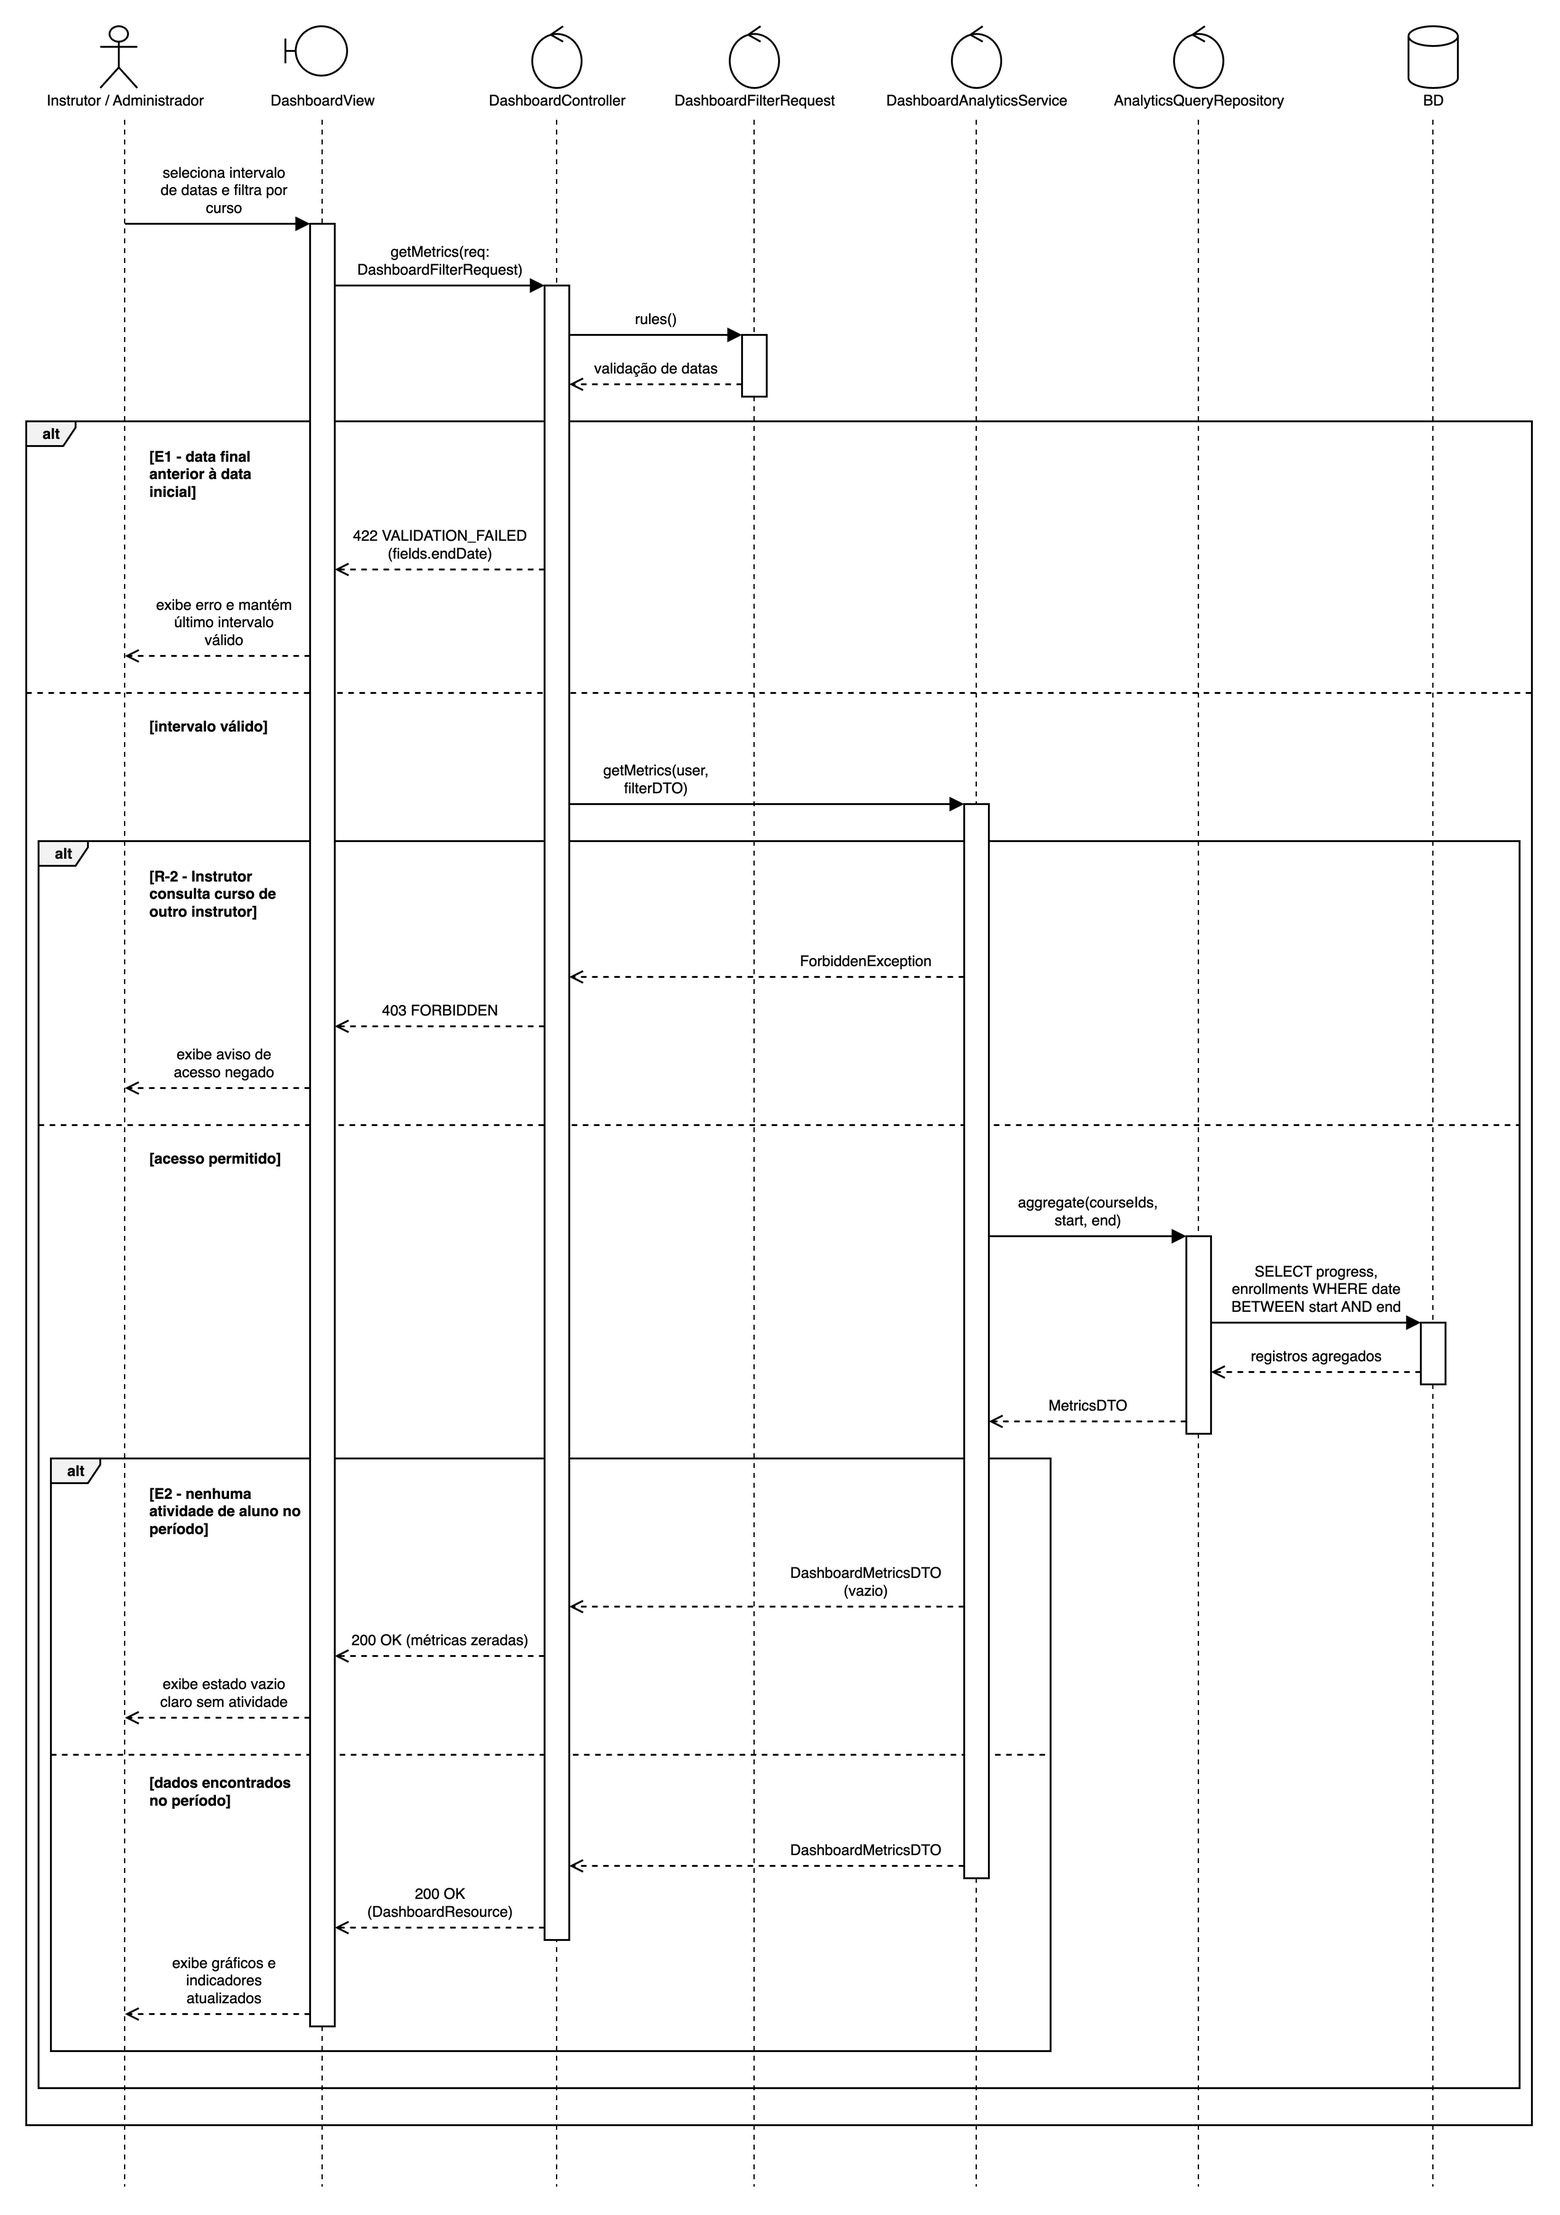
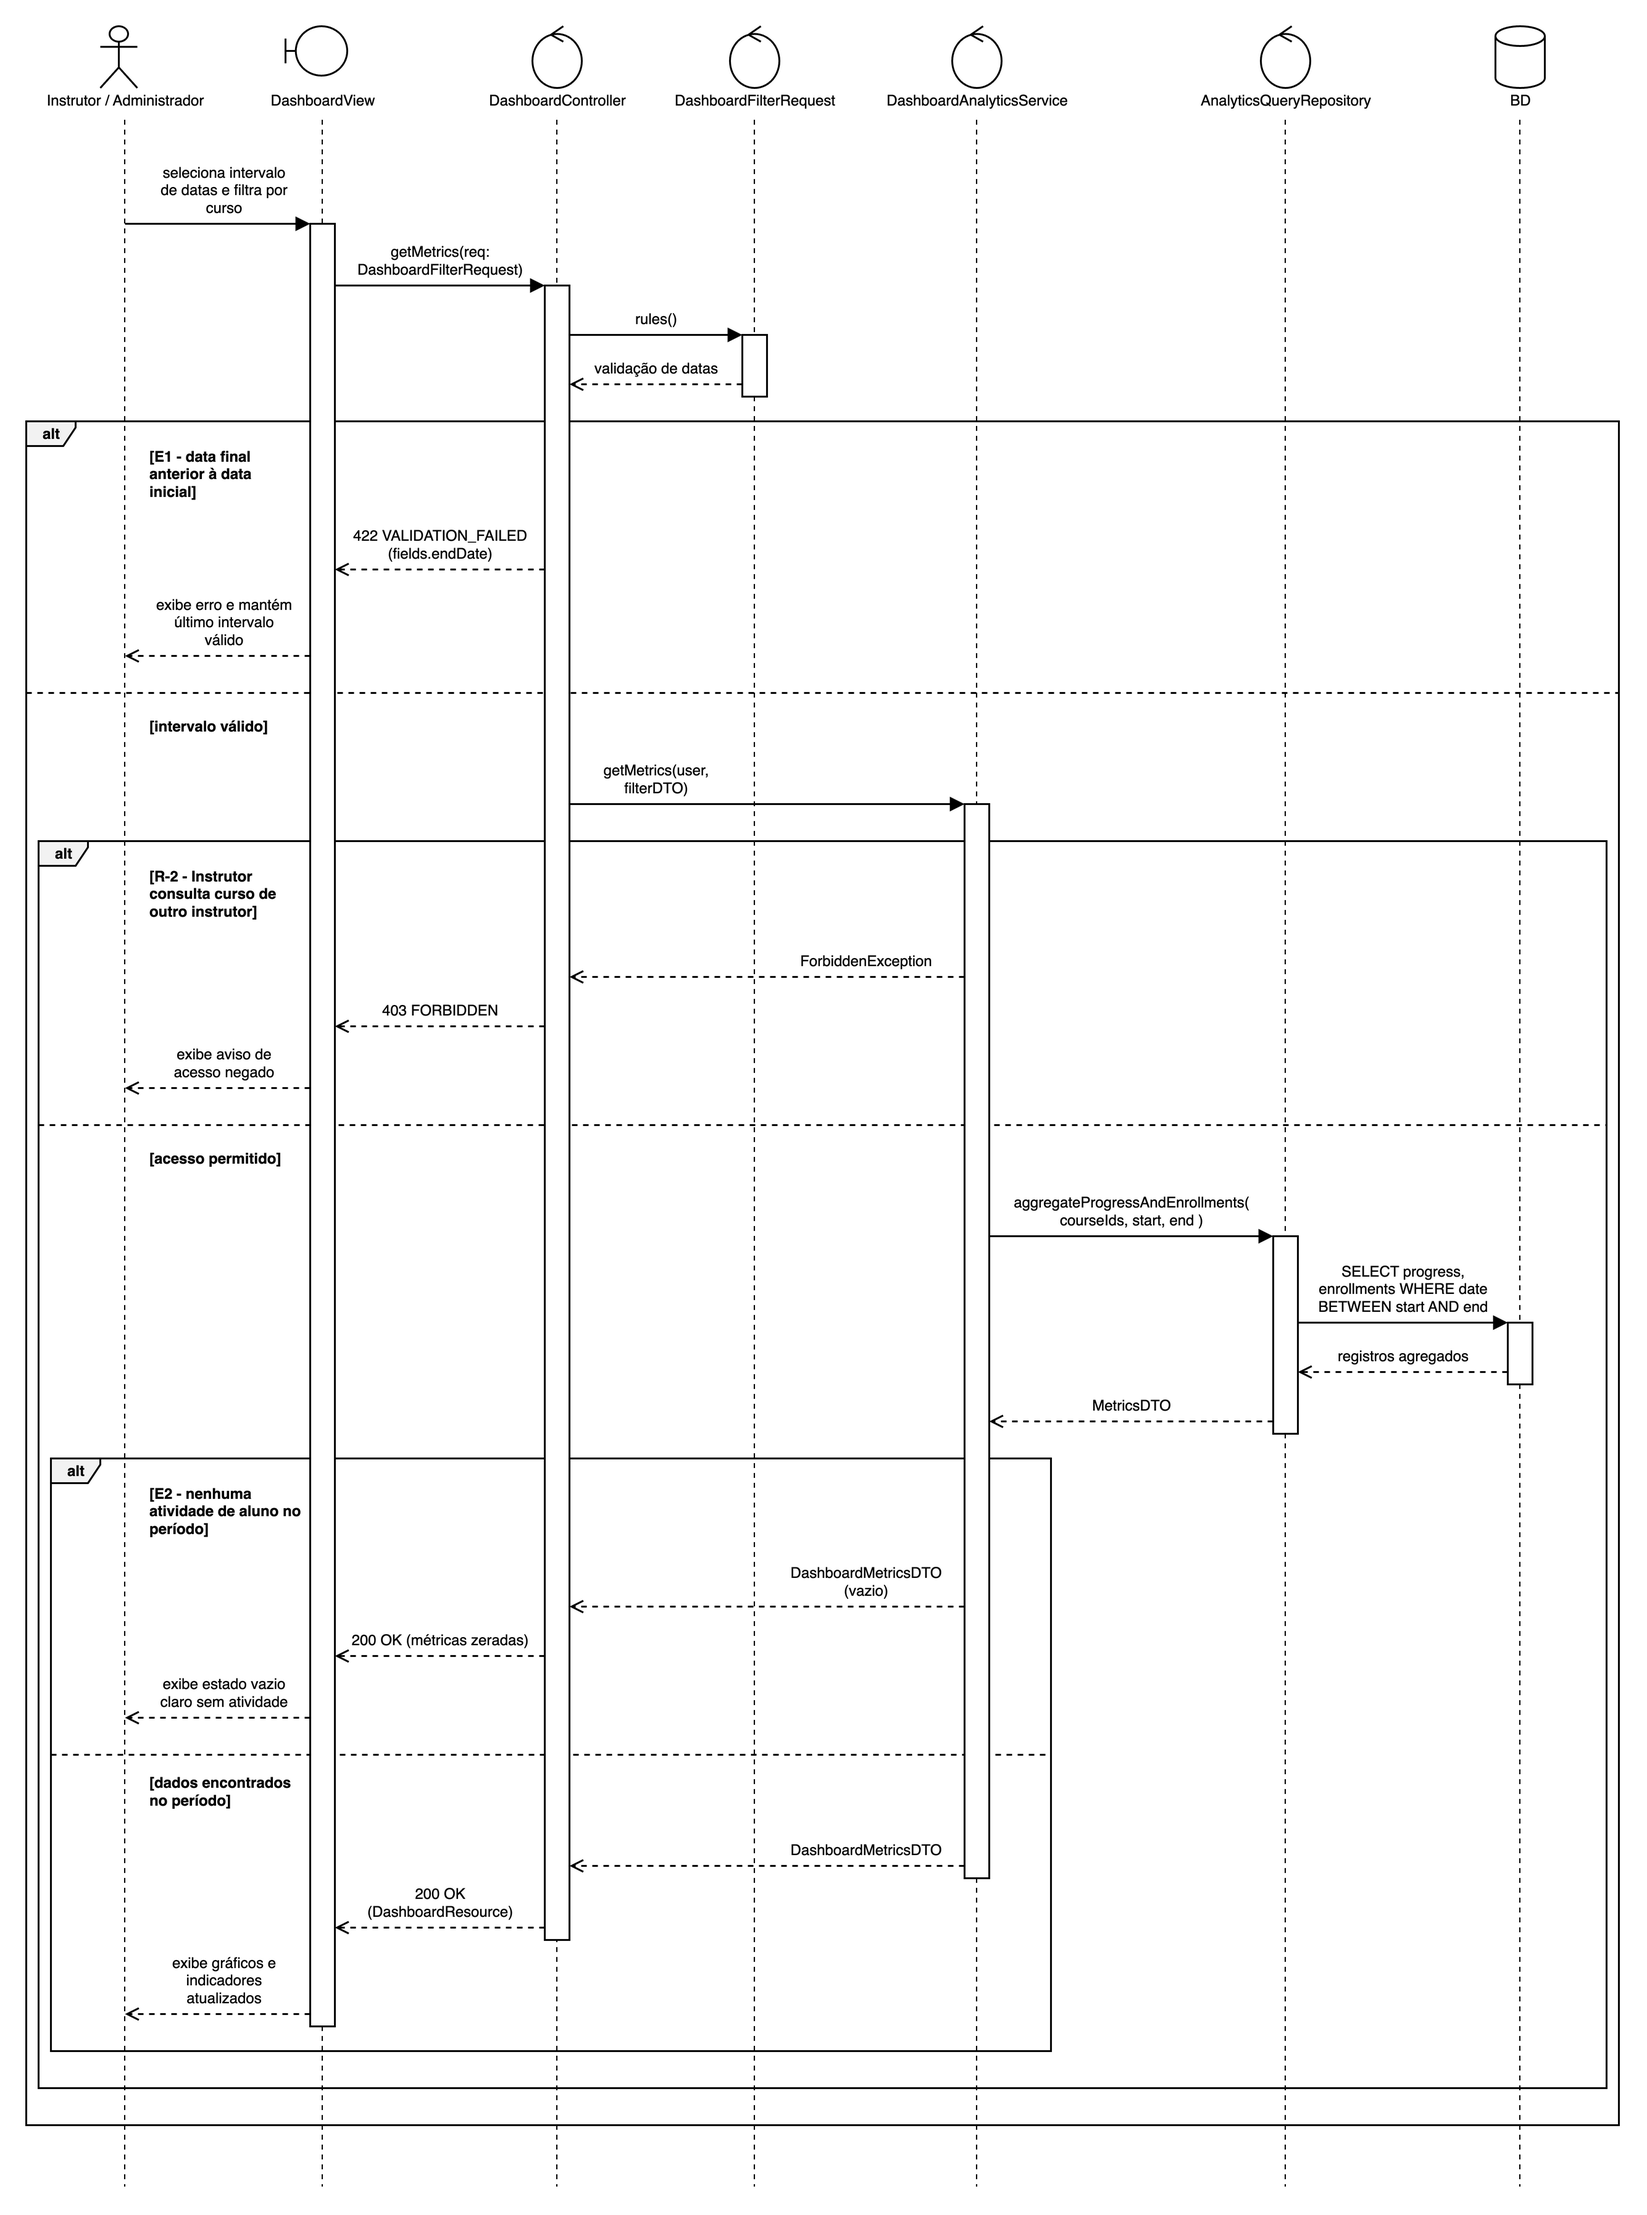
fix(sequencia): align sequence diagram messages with item 13 and clarify #123
Address review findings in item 14:
- Update UC007 sequence message to aggregateProgressAndEnrollments to match item 13.
- Clarify in area-d.md that group decision assigns 409 CONFLICT to blocked deletions while unindexed lesson interactions use LESSON_NOT_INDEXED.
- Regenerate UC007 draw.io diagram and export PNG.

Refs #104, #123

diff --git a/especificacao/14-diagramas-de-sequencia/area-d.md b/especificacao/14-diagramas-de-sequencia/area-d.md
@@ -42,7 +42,7 @@ Exclusão definitiva de conta pelo Administrador com anonimização de dados pes
 
 Em conformidade com a regra 8 do `AGENTS.md`, seguem resolvidas as pendências cruzadas deixadas pela Área A para a Área D no item 14:
 
-1. **Códigos de erro `CONFLICT` e `SERVICE_UNAVAILABLE` do catálogo (`docs/tdd.md` seção 3.1):** Confirmados para a Área D com base nos requisitos **RF009** e **RNF003**:
-   - O código `CONFLICT` (HTTP 409) é confirmado para a Área D sob a especialização estável `LESSON_NOT_INDEXED` no fluxo de exceção E1 do UC001, disparado quando o Aluno tenta interagir com o Tutor de IA em uma aula cujo processamento de transcrição e geração de embeddings vetoriais ainda não foi finalizado.
+1. **Códigos de erro `CONFLICT` e `SERVICE_UNAVAILABLE` do catálogo (`docs/tdd.md` seção 3.1):** Alinhados e confirmados para a Área D com base nos requisitos **RF009**, **RF012** e **RNF003**:
+   - Conforme decisão técnica do grupo, o código de catálogo `CONFLICT` (HTTP 409) é reservado para operações onde há conflito de estado de negócio (como tentativa de exclusão bloqueada por dependências ativas), enquanto a interação com o Tutor de IA em aula cujo processamento de transcrição e geração de embeddings vetoriais ainda não foi finalizado utiliza o código específico e estável `LESSON_NOT_INDEXED` (HTTP 409, fluxo de exceção E1 do UC001).
    - O código `SERVICE_UNAVAILABLE` (HTTP 503) é confirmado para a Área D no fluxo de exceção E3 do UC001, acompanhado obrigatoriamente do cabeçalho HTTP `Retry-After` e do atributo `error.retryAfterSeconds`, retornado quando ocorre falha de comunicação, indisponibilidade temporária ou timeout do microsserviço físico `ai-service` ou da API do provedor de inteligência artificial.
 2. **RNF016 nas ações administrativas do UC008:** Atendido por **RNF016**, **RF012** e regras de negócio do **UC008** (R-4) e **UC018** (R-4). O diagrama de sequência do UC008 (`14-sequencia-uc008.drawio`) e sua especificação modelam expressamente o acionamento síncrono do serviço `AuditService.logAction(...)` e a execução da operação de persistência em banco de dados (`INSERT audit_logs`) tanto no fluxo alternativo A4 (alteração de perfil de acesso pelo Administrador) quanto no fluxo básico de bloqueio e desbloqueio de usuários, bem como na negação de acesso do UC016 e na exclusão/anonimização do UC018. Todos os eventos auditados registram autor, ação, identificador do alvo e carimbo de data/hora, com garantia de retenção pelo período estrito de 12 meses.
